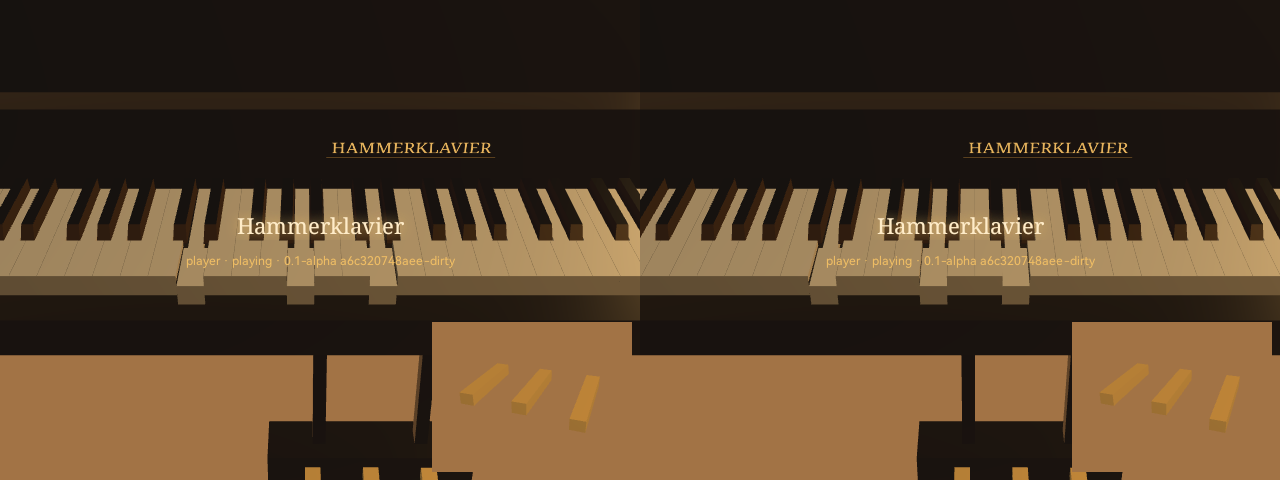
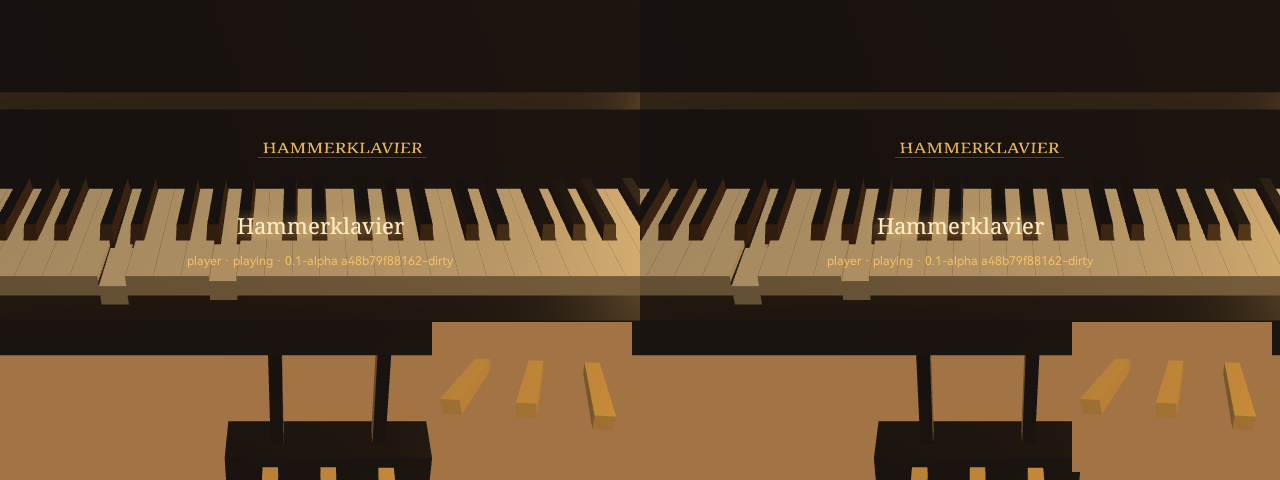
M3: overlay follows the clock's play state; sync flash frame log + screencap burst; closer pedal inset

diff --git a/app/src/main/java/com/tropicalstream/hammerklavier/AppController.kt b/app/src/main/java/com/tropicalstream/hammerklavier/AppController.kt
@@ -89,6 +89,12 @@ class AppController(private val ctx: Context, private val w: Wiring) {
         w.main.postDelayed(this, 500)
     } }
     private val debugTick = object : Runnable { override fun run() { if (!debug) return; refreshOverlay(); w.main.postDelayed(this, 500) } }
+    /** The play/pause state lands on the audio thread after the action; re-render the overlay when it changes. */
+    private var shownPlaying = false
+    private val playWatch = object : Runnable { override fun run() {
+        if (overlay == null) return
+        if (isPlaying() != shownPlaying) refreshOverlay()
+        w.main.postDelayed(this, 250) } }
 
     fun startEngine() {
         if (engineRunning) return
@@ -121,6 +127,7 @@ class AppController(private val ctx: Context, private val w: Wiring) {
         gl.setIdle(!isPlaying())
         lastPerf?.let { gl.setPerformance(it, lastProfile) }
         refreshOverlay()
+        w.main.removeCallbacks(playWatch); w.main.post(playWatch)
     }
 
     // ── Render wiring (M3) ──
@@ -150,7 +157,7 @@ class AppController(private val ctx: Context, private val w: Wiring) {
     /** Called from the 500 ms hint poll: idle pacing follows the clock. */
     fun syncIdle() { val idle = !isPlaying(); if (idle != lastIdle) { lastIdle = idle; gl?.setIdle(idle) } }
 
-    fun detach() { gl = null; overlay = null }
+    fun detach() { gl = null; overlay = null; w.main.removeCallbacks(playWatch) }
 
     /** §1.10 onResume: restart the engine if it was stopped, pacing, the render-side quality. */
     fun onResume() {
@@ -308,7 +315,8 @@ class AppController(private val ctx: Context, private val w: Wiring) {
 
     private fun refreshOverlay() {
         val o = overlay ?: return
-        o.show(w.ui.render(facts(), SystemClock.uptimeMillis()))
+        val f = facts(); shownPlaying = f.playing
+        o.show(w.ui.render(f, SystemClock.uptimeMillis()))
     }
 
     /** Minimal facts for the stub UI; WP12's FactsAssembler replaces this. */

diff --git a/app/src/main/java/com/tropicalstream/hammerklavier/render/StereoRenderer.kt b/app/src/main/java/com/tropicalstream/hammerklavier/render/StereoRenderer.kt
@@ -175,6 +175,7 @@ class StereoRenderer(private val loader: ExecutorService?,
     @Volatile var glAllocs = -1; private set
     @Volatile var glInfo = ""; private set
     @Volatile var maxDrawsPerEye = 0; private set
+    @Volatile var syncFrames = 0; private set
     /** glUniform4fv calls in the last frame (§5.8: ≤ 20). */
     @Volatile var uniform4fvPerFrame = 0; private set
     private val cpuUs = IntArray(128)
@@ -351,7 +352,9 @@ class StereoRenderer(private val loader: ExecutorService?,
                 n += drawLabels(d, scn, eye.view, eye.proj)
                 if (viewCode == INSET_VIEW) { n += inset.draw(scn.assembled, frame, gen, ex, 0, ew); GLES20.glViewport(ex, 0, ew, height) }
             }
-            n += sync.draw(programs.fade, pose, ex, 0, ew, height)
+            val sd = sync.draw(programs.fade, pose, ex, 0, ew, height)
+            if (sd > 0 && e == 0) { syncFrames++; if (syncFrames % 8 == 1) Log.i(HK.TAG_RENDER, "sync flash frame n=" + syncFrames) }
+            n += sd
             n += fader.draw(programs.fade, director.fade)
             if (e == 0) draws = n
         }

diff --git a/app/src/main/java/com/tropicalstream/hammerklavier/render/PedalInset.kt b/app/src/main/java/com/tropicalstream/hammerklavier/render/PedalInset.kt
@@ -21,10 +21,10 @@ class PedalInset(private val drawer: ItemDrawer) {
     /** Off the hot path: [hasPedals] false (harpsichord) disables the inset. */
     fun install(scene: AssembledScene, placement: Placement, hasPedals: Boolean) {
         // M3: closer than WP6's (0.30, 0.40, 0.55): at 0.8 m the pedals were ~10 px wide in the 200 px box.
-        pos[0] = 0.14f; pos[1] = 0.30f; pos[2] = 0.12f
-        target[0] = 0f; target[1] = 0.08f; target[2] = -0.28f
+        pos[0] = 0.03f; pos[1] = 0.24f; pos[2] = 0.02f
+        target[0] = 0f; target[1] = 0.07f; target[2] = -0.29f
         placement.toRoom(pos, pos); placement.toRoom(target, target)
-        rig.update(pos, target, 30f, 0f, 1f, 0f, W.toFloat() / H, 0f, 0f, false)
+        rig.update(pos, target, 34f, 0f, 1f, 0f, W.toFloat() / H, 0f, 0f, false)
         val l = ArrayList<Int>()
         for (i in scene.items.indices) {
             val k = scene.items[i].key

diff --git a/docs/progress/INTEGRATION.md b/docs/progress/INTEGRATION.md
@@ -227,3 +227,10 @@ not caught by screencap but is detected at every click in the scrcpy recordings 
   tools/ci.sh re-run at 39f10b4: PASS. M3 still not tagged: remaining gate items need a 240 fps phone, a BT headset and the user.
 - WP7 request (harpsichord action-set layout) still to be decided by the plan owner before M7.
 - Pass the bank's `lastDamper` to `setInstrument` when WP12 lands (profile default 88 is correct for Salamander).
+
+### M3 verifier fixes (2026-09-23)
+- Status line said "paused" while playing: play/pause lands on the audio thread after the action, the overlay rendered first. AppController now watches the clock every 250 ms and re-renders on change. Verified: smoke player_overview.png reads "player · playing".
+- Sync flash: the disc is lit only during an A4 contact's exposure window (one frame), so a single screencap misses it. The renderer now logs `sync flash frame n=` (smoke expects it: PASS), smoke_m3 takes a 12-shot burst, and a 60-shot burst caught 3 lit frames (centre pixel fff2d3 vs a57646): docs/shots/m3_sync_flash.png.
+- Pedal inset camera moved closer (pos 0.03,0.24,0.02 -> target 0,0.07,-0.29, fov 34): the three pedals now fill the inset width (docs/shots/m3_player_follow.png).
+- Re-run: ci PASS, run.sh md5 22e8f64e75bec5c0a528a562eff3834d, smoke M3 11/11 PASS, draws max 15/eye.
+- Still open (not measurable here): T-SYNC absolute (240 fps camera + avsync.py), T-SYNC/T-UND on Bluetooth (no headset paired), L-1 and on-head stereo review (user). milestone-M3 not tagged.
